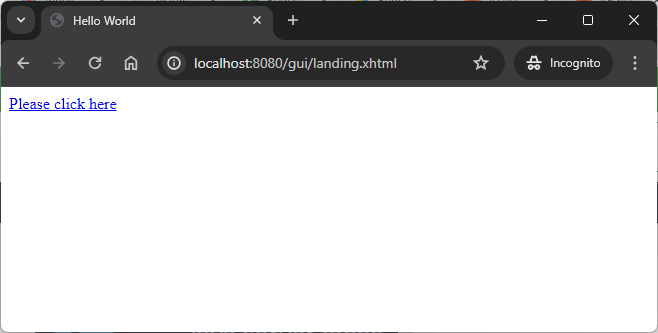
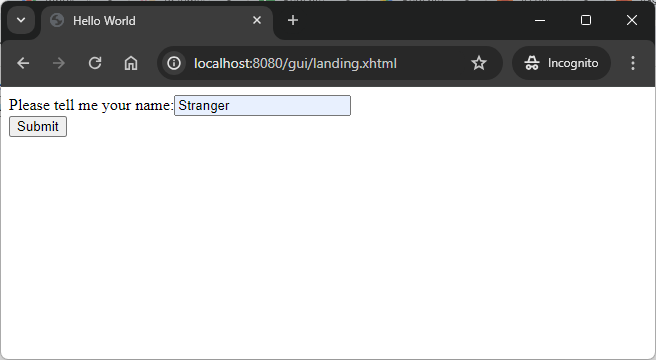
Update Readme file

diff --git a/architectures/gui/jsf/java-ee9-gui-jsf-helloworld-form-multiple/README.md b/architectures/gui/jsf/java-ee9-gui-jsf-helloworld-form-multiple/README.md
@@ -9,8 +9,8 @@ Usage steps:
 1. In a command line tool create package with `mvn clean package`
 1. In a command line tool start application with `java -jar pm.jar --deploy .\target\gui.war --port 8080`
 1. In a http browser (e.g. Chrome) visit `http://localhost:8080/gui`
-   * Expected **Landing** page. Click on the link **Please click here**
-   * Expected **HelloWorld** page. Message on this page: **Hello World!**
+   * Expected **Landing** page. Please type "Stranger" as the **name** and click **Submit** button
+   * Expected **Hello World** page. Message on this page: **Hello World** plus name
 1. Clean up environment 
      * In a command line tool stop application with `ctrl + C`
 
@@ -27,16 +27,16 @@ DESCRIPTION
 -----------
 
 ##### Goal
-The goal of this project is to present how to implement **multiple plain** pages in a **GUI JSF Java** application with usage **Java EE 9** framework. Application is deployed on **payara micro** in version 6.
+The goal of this project is to present how to implement **multiple form** pages in a **GUI JSF Java** application with usage **Java EE 9** framework. Application is deployed on **payara micro** in version 6.
 
-**Multiple plain** pages means that this application contains two pages with connectin between them.
+**Multiple form** pages means that this application contains two pages: one with a form and second with a message.
 
 ##### Flow
 The following flow takes place in this project:
 1. User via any browser sends request to application for a content of Landing page.
 1. Application returns response with Landing page. This response is presented to User via browser.
-1. User via any browser sends request to application for a content of HelloWorld page.
-1. Application returns response with HelloWorld page. This response is presented to User via browser.
+1. User via any browser sends request to application for a content of Hello World page.
+1. Application returns response with Hello World page. This response is presented to User via browser.
 
 ##### Launch
 To launch this application please make sure that the **Preconditions** are met and then follow instructions from **Usage** section.
